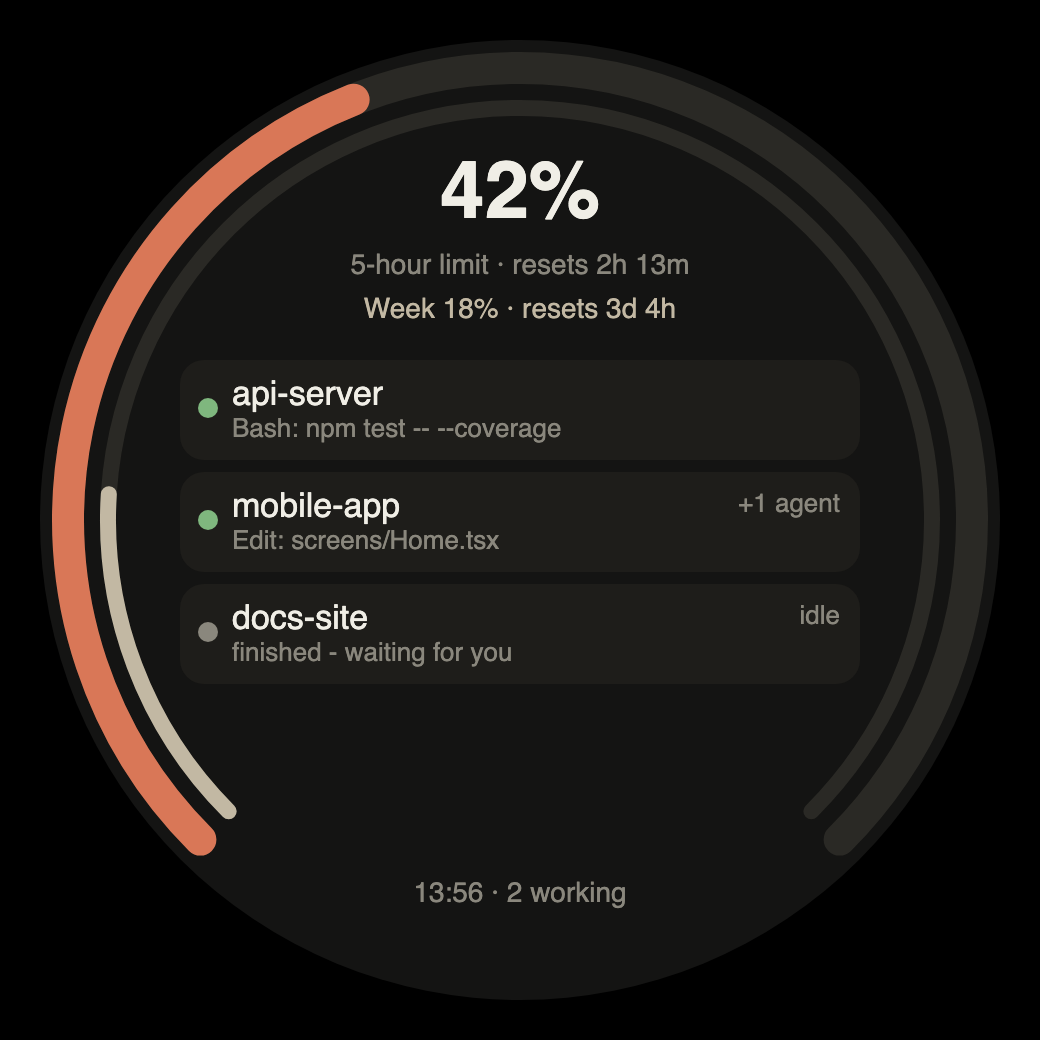
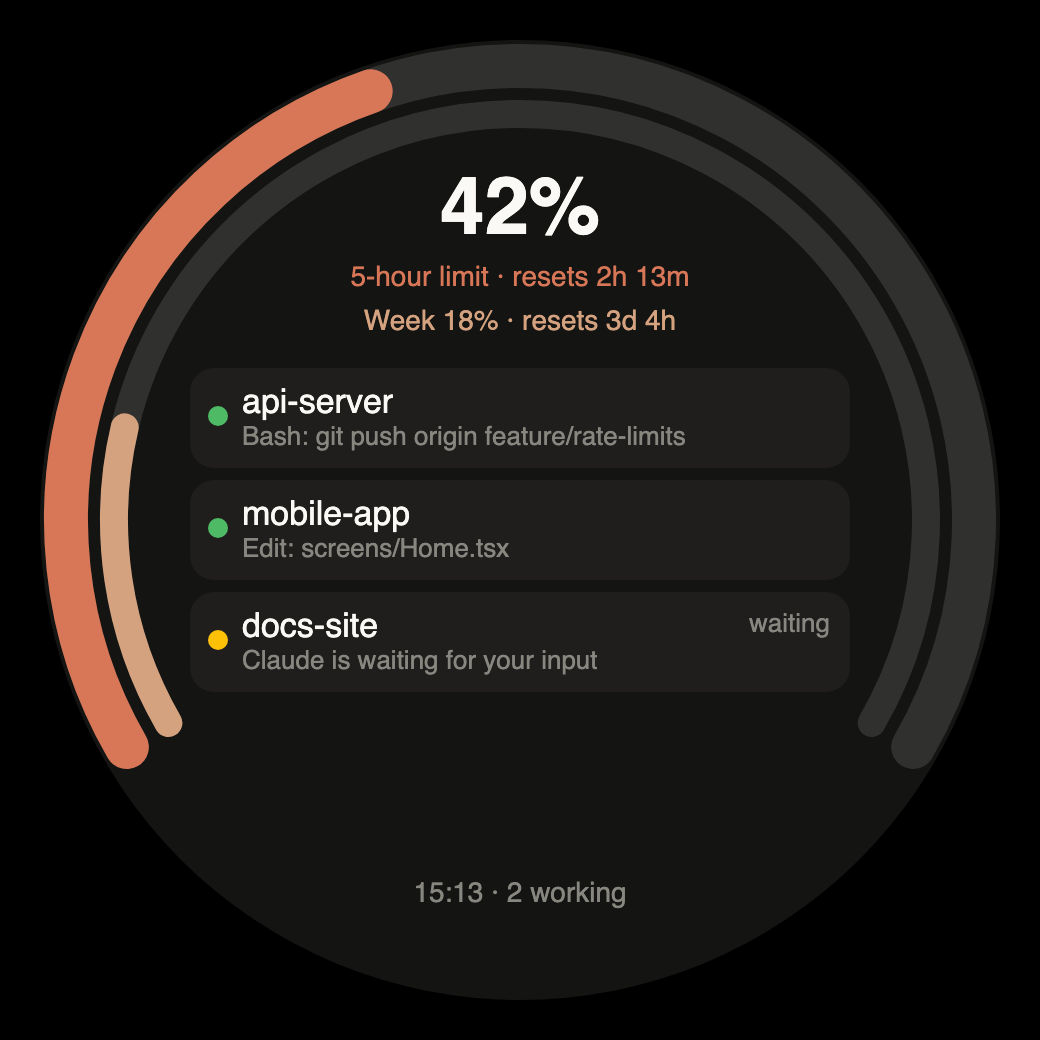
Claude colors, thicker usage rings tied to their labels
- Palette: Anthropic brand neutrals (slate, ivory, cloud), Claude orange for the
  5-hour ring, kraft for the weekly ring, Claude Code's success/warning/error for
  status, and its permission periwinkle for permission/question cards.
- Rings 22/14 px (were 16/8) with a 240-degree sweep; layout adjusted to fit.
- Each usage line takes its ring's color, including the 75 %/90 % warning colors.
- Browser preview and README screenshots updated to match.

diff --git a/bridge/bridge.py b/bridge/bridge.py
@@ -860,48 +860,49 @@ def lan_ip():
 PREVIEW_HTML = r"""<!doctype html><html><head><meta charset="utf-8"><title>Claude Dash preview</title>
 <style>
 body{background:#000;margin:0;display:grid;place-items:center;height:100vh;font-family:-apple-system,Helvetica,sans-serif}
-#d{width:480px;height:480px;border-radius:50%;background:#141413;position:relative;overflow:hidden;color:#F0EEE6}
+#d{width:480px;height:480px;border-radius:50%;background:#141413;position:relative;overflow:hidden;color:#FAF9F5}
 svg{position:absolute;inset:0}
 .c{position:absolute;left:0;right:0;text-align:center}
-#pct{top:52px;font-size:40px;font-weight:600}#sub{top:104px;font-size:14px;color:#8A877D}#wk{top:126px;font-size:14px;color:#C2B8A3}
-#list{position:absolute;top:160px;left:70px;width:340px;height:210px;overflow:auto;display:flex;flex-direction:column;gap:6px}
-.row{background:#1E1D1A;border-radius:12px;padding:7px 10px 7px 26px;position:relative;height:36px;flex:none}
+#pct{top:60px;font-size:40px;font-weight:600}#sub{top:110px;font-size:14px;color:#87867F}#wk{top:132px;font-size:14px;color:#D4A27F}
+#list{position:absolute;top:164px;left:75px;width:330px;height:200px;overflow:auto;display:flex;flex-direction:column;gap:6px}
+.row{background:#1F1E1D;border-radius:12px;padding:7px 10px 7px 26px;position:relative;height:36px;flex:none}
 .dot{position:absolute;left:9px;top:19px;width:10px;height:10px;border-radius:50%}
-.nm{font-size:17px}.dt{font-size:13px;color:#8A877D;white-space:nowrap;overflow:hidden;text-overflow:ellipsis;width:250px}
-.bd{position:absolute;right:10px;top:8px;font-size:13px;color:#8A877D}
-#st{bottom:46px;font-size:14px;color:#8A877D}
-#dec{position:absolute;inset:0;border-radius:50%;background:#141413;border:4px solid #D97757;box-sizing:border-box;display:none}
-#dt{top:58px;font-size:13px;color:#D97757;letter-spacing:1px}#ds{top:84px;font-size:18px}#dtool{top:110px;font-size:28px;font-weight:600}
-#dbox{position:absolute;top:161px;left:66px;width:316px;height:110px;background:#1E1D1A;border-radius:12px;padding:12px;font-size:14px;overflow:auto;white-space:pre-wrap;word-break:break-all}
-button{position:absolute;top:305px;width:150px;height:72px;border:0;border-radius:36px;font-size:20px;color:#F0EEE6;cursor:pointer}
-#deny{left:83px;background:#3A3935}#allow{left:243px;background:#D97757}
-#dh{bottom:40px;font-size:13px;color:#8A877D}
-#pair{position:fixed;top:24px;left:50%;transform:translateX(-50%);background:#F0EEE6;color:#141413;border-radius:16px;padding:18px 22px;display:none;text-align:center;box-shadow:0 8px 30px #0008;z-index:9}
+.nm{font-size:17px}.dt{font-size:13px;color:#87867F;white-space:nowrap;overflow:hidden;text-overflow:ellipsis;width:250px}
+.bd{position:absolute;right:10px;top:8px;font-size:13px;color:#87867F}
+#st{bottom:46px;font-size:14px;color:#87867F}
+#dec{position:absolute;inset:0;border-radius:50%;background:#141413;border:4px solid #B1B9F9;box-sizing:border-box;display:none}
+#dt{top:58px;font-size:13px;color:#B1B9F9;letter-spacing:1px}#ds{top:84px;font-size:18px}#dtool{top:110px;font-size:28px;font-weight:600}
+#dbox{position:absolute;top:161px;left:66px;width:316px;height:110px;background:#1F1E1D;border-radius:12px;padding:12px;font-size:14px;overflow:auto;white-space:pre-wrap;word-break:break-all}
+button{position:absolute;top:305px;width:150px;height:72px;border:0;border-radius:36px;font-size:20px;color:#FAF9F5;cursor:pointer}
+#deny{left:83px;background:#3D3D3A}#allow{left:243px;background:#D77757}
+#dh{bottom:40px;font-size:13px;color:#87867F}
+#pair{position:fixed;top:24px;left:50%;transform:translateX(-50%);background:#FAF9F5;color:#141413;border-radius:16px;padding:18px 22px;display:none;text-align:center;box-shadow:0 8px 30px #0008;z-index:9}
 #pair b{display:block;font-size:44px;letter-spacing:8px;margin:6px 0 10px}
 #pair button{position:static;width:auto;height:auto;padding:10px 20px;font-size:16px;border-radius:10px;margin:0 4px}
-#pair .ok{background:#D97757}#pair .no{background:#8A877D}
+#pair .ok{background:#D77757}#pair .no{background:#87867F}
 </style></head><body><div id="pair"></div><div id="d">
-<svg viewBox="0 0 480 480"><path id="a1b" fill="none" stroke="#2A2925" stroke-width="16" stroke-linecap="round"/><path id="a1" fill="none" stroke="#D97757" stroke-width="16" stroke-linecap="round"/>
-<path id="a2b" fill="none" stroke="#2A2925" stroke-width="8" stroke-linecap="round"/><path id="a2" fill="none" stroke="#C2B8A3" stroke-width="8" stroke-linecap="round"/></svg>
+<svg viewBox="0 0 480 480"><path id="a1b" fill="none" stroke="#30302E" stroke-width="22" stroke-linecap="round"/><path id="a1" fill="none" stroke="#D77757" stroke-width="22" stroke-linecap="round"/>
+<path id="a2b" fill="none" stroke="#30302E" stroke-width="14" stroke-linecap="round"/><path id="a2" fill="none" stroke="#D4A27F" stroke-width="14" stroke-linecap="round"/></svg>
 <div class="c" id="pct">--</div><div class="c" id="sub"></div><div class="c" id="wk"></div>
 <div id="list"></div><div class="c" id="st"></div>
 <div id="dec"><div class="c" id="dt"></div><div class="c" id="ds"></div><div class="c" id="dtool"></div><div id="dbox"></div>
 <button id="deny">Deny</button><button id="allow">Allow</button><div class="c" id="dh"></div></div></div>
 <script>
 const $=id=>document.getElementById(id);
-function arc(r,pct){const a0=135,sweep=270*Math.max(0,Math.min(100,pct))/100;if(sweep<=0)return"";const p=a=>[240+r*Math.cos(a*Math.PI/180),240+r*Math.sin(a*Math.PI/180)];
+function arc(r,pct){const a0=150,sweep=240*Math.max(0,Math.min(100,pct))/100;if(sweep<=0)return"";const p=a=>[240+r*Math.cos(a*Math.PI/180),240+r*Math.sin(a*Math.PI/180)];
 const [x0,y0]=p(a0),[x1,y1]=p(a0+sweep);return`M${x0} ${y0} A${r} ${r} 0 ${sweep>180?1:0} 1 ${x1} ${y1}`}
-$('a1b').setAttribute('d',arc(226,100));$('a2b').setAttribute('d',arc(206,100));
+$('a1b').setAttribute('d',arc(227,100));$('a2b').setAttribute('d',arc(203,100));
+const lvl=(p,base)=>p>=90?'#FF6B80':p>=75?'#FFC107':base;
 function dur(s){if(s==null)return"?";const d=Math.floor(s/86400),h=Math.floor(s%86400/3600),m=Math.floor(s%3600/60);return d?`${d}d ${h}h`:h?`${h}h ${String(m).padStart(2,'0')}m`:`${m}m`}
-const col={working:'#7FB77E',decision:'#D97757',waiting:'#E8B04B',idle:'#8A877D'};
+const col={working:'#4EBA65',decision:'#B1B9F9',waiting:'#FFC107',idle:'#87867F'};
 const word={decision:'needs you',waiting:'waiting',idle:'idle'};
 let cur=null,sent={};
 async function tick(){let s;try{s=await (await fetch('/state')).json()}catch(e){$('st').textContent='bridge offline';return}
 const u=s.usage,f=u.five_hour,w=u.seven_day;
 if(u.ok&&f){$('pct').textContent=Math.round(f.pct)+'%';$('sub').textContent='5-hour limit · resets '+dur(f.resets_in);
-$('a1').setAttribute('d',arc(226,f.pct));$('a1').setAttribute('stroke',f.pct>=90?'#E5544B':f.pct>=75?'#E8B04B':'#D97757')}else{$('pct').textContent='--';$('sub').textContent=u.error||'usage unavailable'}
-if(u.ok&&w){$('wk').textContent='Week '+Math.round(w.pct)+'% · resets '+dur(w.resets_in);$('a2').setAttribute('d',arc(206,w.pct))}
-$('list').innerHTML=s.sessions.length?s.sessions.map(x=>`<div class="row"><div class="dot" style="background:${col[x.state]||'#8A877D'}"></div><div class="nm">${esc(x.name)}</div><div class="dt">${esc(x.tool?x.tool+': '+x.detail:x.detail)}</div><div class="bd">${x.subagents?'+'+x.subagents+(x.subagents>1?' agents':' agent'):(word[x.state]||'')}</div></div>`).join(''):'<div style="text-align:center;color:#8A877D;margin-top:80px">No active Claude sessions</div>';
+$('a1').setAttribute('d',arc(227,f.pct));$('a1').setAttribute('stroke',lvl(f.pct,'#D77757'));$('sub').style.color=lvl(f.pct,'#D77757')}else{$('pct').textContent='--';$('sub').textContent=u.error||'usage unavailable';$('sub').style.color='#87867F'}
+if(u.ok&&w){$('wk').textContent='Week '+Math.round(w.pct)+'% · resets '+dur(w.resets_in);$('a2').setAttribute('d',arc(203,w.pct));$('a2').setAttribute('stroke',lvl(w.pct,'#D4A27F'));$('wk').style.color=lvl(w.pct,'#D4A27F')}
+$('list').innerHTML=s.sessions.length?s.sessions.map(x=>`<div class="row"><div class="dot" style="background:${col[x.state]||'#87867F'}"></div><div class="nm">${esc(x.name)}</div><div class="dt">${esc(x.tool?x.tool+': '+x.detail:x.detail)}</div><div class="bd">${x.subagents?'+'+x.subagents+(x.subagents>1?' agents':' agent'):(word[x.state]||'')}</div></div>`).join(''):'<div style="text-align:center;color:#87867F;margin-top:80px">No active Claude sessions</div>';
 const working=s.sessions.filter(x=>x.state=='working').length;
 $('st').textContent=new Date().toTimeString().slice(0,5)+' · '+working+' working';
 const p=s.pending.find(p=>!sent[p.id]);

diff --git a/firmware/ClaudeDash/ui.cpp b/firmware/ClaudeDash/ui.cpp
@@ -36,18 +36,20 @@
   #define F_S LV_FONT_DEFAULT
 #endif
 
-// ---------- palette ----------
-#define C_BG     lv_color_hex(0x141413)
-#define C_CARD   lv_color_hex(0x1E1D1A)
-#define C_TRACK  lv_color_hex(0x2A2925)
-#define C_TEXT   lv_color_hex(0xF0EEE6)
-#define C_MUTED  lv_color_hex(0x8A877D)
-#define C_ACCENT lv_color_hex(0xD97757)
-#define C_WEEK   lv_color_hex(0xC2B8A3)
-#define C_GREEN  lv_color_hex(0x7FB77E)
-#define C_AMBER  lv_color_hex(0xE8B04B)
-#define C_RED    lv_color_hex(0xE5544B)
-#define C_BTN    lv_color_hex(0x3A3935)
+// ---------- palette: Claude colors ----------
+// Neutrals and accents from Anthropic's brand palette; status colors from Claude Code's theme.
+#define C_BG     lv_color_hex(0x141413)   // slate
+#define C_CARD   lv_color_hex(0x1F1E1D)
+#define C_TRACK  lv_color_hex(0x30302E)
+#define C_BTN    lv_color_hex(0x3D3D3A)
+#define C_TEXT   lv_color_hex(0xFAF9F5)   // ivory
+#define C_MUTED  lv_color_hex(0x87867F)   // cloud
+#define C_ACCENT lv_color_hex(0xD77757)   // Claude orange: 5-hour ring, Allow
+#define C_WEEK   lv_color_hex(0xD4A27F)   // kraft: weekly ring
+#define C_PERM   lv_color_hex(0xB1B9F9)   // Claude Code permission prompt color
+#define C_GREEN  lv_color_hex(0x4EBA65)   // Claude Code success
+#define C_AMBER  lv_color_hex(0xFFC107)   // Claude Code warning
+#define C_RED    lv_color_hex(0xFF6B80)   // Claude Code error
 
 struct Row { lv_obj_t *box, *dot, *name, *detail, *badge; };
 
@@ -76,7 +78,7 @@ static lv_obj_t *ring(lv_obj_t *parent, int size, int width, lv_color_t c) {
   lv_obj_t *a = lv_arc_create(parent);
   lv_obj_set_size(a, size, size);
   lv_obj_center(a);
-  lv_arc_set_bg_angles(a, 135, 45);
+  lv_arc_set_bg_angles(a, 150, 30);   // 240° sweep, open at the bottom
   lv_arc_set_range(a, 0, 100);
   lv_arc_set_value(a, 0);
   lv_obj_remove_style(a, NULL, LV_PART_KNOB);
@@ -90,6 +92,11 @@ static lv_obj_t *ring(lv_obj_t *parent, int size, int width, lv_color_t c) {
   return a;
 }
 
+// Ring and its usage line share one color: the ring's own color, amber from 75 %, red from 90 %.
+static lv_color_t usageColor(float pct, lv_color_t base) {
+  return pct >= 90 ? C_RED : pct >= 75 ? C_AMBER : base;
+}
+
 static void fmtDur(long s, char *out, size_t n) {
   if (s < 0) { strlcpy(out, "?", n); return; }
   long d = s / 86400, h = (s % 86400) / 3600, m = (s % 3600) / 60;
@@ -100,7 +107,7 @@ static void fmtDur(long s, char *out, size_t n) {
 
 static lv_color_t stateColor(const char *st) {
   if (!strcmp(st, "working")) return C_GREEN;
-  if (!strcmp(st, "decision")) return C_ACCENT;
+  if (!strcmp(st, "decision")) return C_PERM;
   if (!strcmp(st, "waiting")) return C_AMBER;
   return C_MUTED;
 }
@@ -254,13 +261,13 @@ static void buildQuestionOverlay() {
   lv_obj_set_style_radius(qdlg, LV_RADIUS_CIRCLE, 0);
   lv_obj_set_style_bg_color(qdlg, C_BG, 0);
   lv_obj_set_style_bg_opa(qdlg, LV_OPA_COVER, 0);
-  lv_obj_set_style_border_color(qdlg, C_WEEK, 0);
+  lv_obj_set_style_border_color(qdlg, C_PERM, 0);
   lv_obj_set_style_border_width(qdlg, 5, 0);
   lv_obj_set_style_pad_all(qdlg, 0, 0);
   lv_obj_clear_flag(qdlg, LV_OBJ_FLAG_SCROLLABLE);
   lv_obj_add_flag(qdlg, LV_OBJ_FLAG_HIDDEN);
 
-  lblQTitle = label(qdlg, F_S, C_ACCENT);
+  lblQTitle = label(qdlg, F_S, C_PERM);
   lv_obj_align(lblQTitle, LV_ALIGN_TOP_MID, 0, 44);
   lblQSession = label(qdlg, F_S, C_MUTED);
   lv_obj_align(lblQSession, LV_ALIGN_TOP_MID, 0, 66);
@@ -390,21 +397,21 @@ void ui_init() {
   lv_obj_set_style_bg_opa(scr, LV_OPA_COVER, 0);
   lv_obj_clear_flag(scr, LV_OBJ_FLAG_SCROLLABLE);
 
-  arc5 = ring(scr, 468, 16, C_ACCENT);
-  arcWeek = ring(scr, 428, 8, C_WEEK);
+  arc5 = ring(scr, 476, 22, C_ACCENT);    // 5-hour limit: outer, r 238..216
+  arcWeek = ring(scr, 420, 14, C_WEEK);   // weekly limit: inner, r 210..196
 
   lblPct = label(scr, F_XL, C_TEXT);
-  lv_obj_align(lblPct, LV_ALIGN_TOP_MID, 0, 50);
+  lv_obj_align(lblPct, LV_ALIGN_TOP_MID, 0, 58);
   lv_label_set_text(lblPct, "--");
   lblSub = label(scr, F_S, C_MUTED);
-  lv_obj_align(lblSub, LV_ALIGN_TOP_MID, 0, 104);
+  lv_obj_align(lblSub, LV_ALIGN_TOP_MID, 0, 110);
   lv_label_set_text(lblSub, "Connecting...");
   lblWeek = label(scr, F_S, C_WEEK);
-  lv_obj_align(lblWeek, LV_ALIGN_TOP_MID, 0, 126);
+  lv_obj_align(lblWeek, LV_ALIGN_TOP_MID, 0, 132);
 
   list = lv_obj_create(scr);
-  lv_obj_set_size(list, 340, 210);
-  lv_obj_align(list, LV_ALIGN_TOP_MID, 0, 160);
+  lv_obj_set_size(list, 330, 200);
+  lv_obj_align(list, LV_ALIGN_TOP_MID, 0, 164);
   lv_obj_set_style_bg_opa(list, LV_OPA_TRANSP, 0);
   lv_obj_set_style_border_width(list, 0, 0);
   lv_obj_set_style_pad_all(list, 0, 0);
@@ -416,7 +423,7 @@ void ui_init() {
   for (int i = 0; i < MAX_SESSIONS; i++) {
     Row &r = rows[i];
     r.box = lv_obj_create(list);
-    lv_obj_set_size(r.box, 340, 52);
+    lv_obj_set_size(r.box, 330, 52);
     lv_obj_set_style_bg_color(r.box, C_CARD, 0);
     lv_obj_set_style_border_width(r.box, 0, 0);
     lv_obj_set_style_radius(r.box, 12, 0);
@@ -437,7 +444,7 @@ void ui_init() {
     lv_obj_align(r.name, LV_ALIGN_TOP_LEFT, 28, 6);
 
     r.detail = label(r.box, F_S, C_MUTED);
-    lv_obj_set_width(r.detail, 300);
+    lv_obj_set_width(r.detail, 290);
     lv_label_set_long_mode(r.detail, LV_LABEL_LONG_DOT);
     lv_obj_align(r.detail, LV_ALIGN_BOTTOM_LEFT, 28, -6);
 
@@ -495,13 +502,13 @@ void ui_init() {
   lv_obj_set_style_radius(dec, LV_RADIUS_CIRCLE, 0);
   lv_obj_set_style_bg_color(dec, C_BG, 0);
   lv_obj_set_style_bg_opa(dec, LV_OPA_COVER, 0);
-  lv_obj_set_style_border_color(dec, C_ACCENT, 0);
+  lv_obj_set_style_border_color(dec, C_PERM, 0);
   lv_obj_set_style_border_width(dec, 5, 0);
   lv_obj_set_style_pad_all(dec, 0, 0);
   lv_obj_clear_flag(dec, LV_OBJ_FLAG_SCROLLABLE);
   lv_obj_add_flag(dec, LV_OBJ_FLAG_HIDDEN);
 
-  lblDecTitle = label(dec, F_S, C_ACCENT);
+  lblDecTitle = label(dec, F_S, C_PERM);
   lv_obj_align(lblDecTitle, LV_ALIGN_TOP_MID, 0, 54);
   lblDecSession = label(dec, F_M, C_TEXT);
   lv_obj_align(lblDecSession, LV_ALIGN_TOP_MID, 0, 80);
@@ -577,10 +584,12 @@ void ui_update(const DashState &s) {
   if (!s.wifiOk || !s.bridgeOk) {
     lv_label_set_text(lblPct, "--");
     lv_label_set_text(lblSub, s.wifiOk ? "Bridge offline" : "Connecting to Wi-Fi...");
+    lv_obj_set_style_text_color(lblSub, C_MUTED, 0);
     lv_label_set_text(lblWeek, "");
   } else if (!s.usageOk || !s.fiveHour.valid) {
     lv_label_set_text(lblPct, "--");
     lv_label_set_text(lblSub, s.usageErr[0] ? s.usageErr : "Usage unavailable");
+    lv_obj_set_style_text_color(lblSub, C_MUTED, 0);
     lv_label_set_text(lblWeek, "");
     lv_arc_set_value(arc5, 0);
     lv_arc_set_value(arcWeek, 0);
@@ -591,12 +600,17 @@ void ui_update(const DashState &s) {
     snprintf(buf, sizeof(buf), "5-hour limit - resets %s", a);
     lv_label_set_text(lblSub, buf);
     lv_arc_set_value(arc5, (int)constrain(p + 0.5f, 0, 100));
-    lv_obj_set_style_arc_color(arc5, p >= 90 ? C_RED : p >= 75 ? C_AMBER : C_ACCENT, LV_PART_INDICATOR);
+    lv_color_t c5 = usageColor(p, C_ACCENT);
+    lv_obj_set_style_arc_color(arc5, c5, LV_PART_INDICATOR);
+    lv_obj_set_style_text_color(lblSub, c5, 0);
     if (s.week.valid) {
       fmtDur(s.week.resetsIn, b, sizeof(b));
       snprintf(buf, sizeof(buf), "Week %d%% - resets %s", (int)(s.week.pct + 0.5f), b);
       lv_label_set_text(lblWeek, buf);
       lv_arc_set_value(arcWeek, (int)constrain(s.week.pct + 0.5f, 0, 100));
+      lv_color_t cw = usageColor(s.week.pct, C_WEEK);
+      lv_obj_set_style_arc_color(arcWeek, cw, LV_PART_INDICATOR);
+      lv_obj_set_style_text_color(lblWeek, cw, 0);
     } else {
       lv_label_set_text(lblWeek, "");
     }
@@ -619,7 +633,7 @@ void ui_update(const DashState &s) {
     else if (!strcmp(x.state, "waiting")) lv_label_set_text(r.badge, "waiting");
     else if (!strcmp(x.state, "idle")) lv_label_set_text(r.badge, "idle");
     else lv_label_set_text(r.badge, "");
-    lv_obj_set_style_text_color(r.badge, strcmp(x.state, "decision") ? C_MUTED : C_ACCENT, 0);
+    lv_obj_set_style_text_color(r.badge, strcmp(x.state, "decision") ? C_MUTED : C_PERM, 0);
   }
   if (s.bridgeOk && s.nSessions == 0) lv_obj_clear_flag(lblEmpty, LV_OBJ_FLAG_HIDDEN);
   else lv_obj_add_flag(lblEmpty, LV_OBJ_FLAG_HIDDEN);
